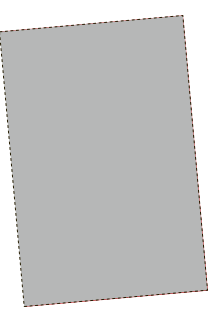
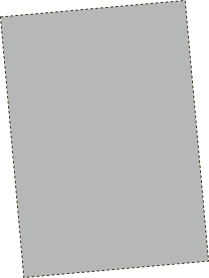
'm'

Changed region(s): [[0.0, 0.0, 1.0, 1.0]]

diff --git a/css/main.css b/css/main.css
@@ -41,7 +41,7 @@ body {
 		font-size:12px;
 	}
      #canvas {
-		height:103%;
+		height:100%;
 	}
 }
 /* for 480px or less */
@@ -50,7 +50,7 @@ body {
 		font-size:12px;
 	}
     #canvas {
-		height:103%;
+		height:100%;
 	}
 }
 

diff --git a/index.php b/index.php
@@ -15,8 +15,8 @@
 		<img  name="bg" src="./images/bg.jpg"  />
 		<div class="gua_area" id="wScratchPad" ></div>
         <a href="javascript:reset_to();"><img id="try_again" class="tip" src="./images/tip01.png" ></a>
-        <img id="bg" class="tip" src="./images/bottom_b.png" >
-        <img id="bottom" class="tipinfo" src="./images/bottom_b.png" >
+        <img id="bg" class="tip" src="./img/lostt1.png" >
+        <img id="bottom" class="tipinfo" src="./img/lostt1.png" >
         <a href="#"><img id="update_info"  class="tip" src="./images/tip02.png" ></a>
         <script type="text/javascript" src="./js/jquery.min.js"></script>
         <script  src="./js/main.js?v=1"></script>
@@ -29,9 +29,6 @@
 			 var ctx=c.getContext("2d");
 			 var img=document.getElementById("bg");
 			 ctx.drawImage(img,0, 0);
-			 //$("#canvas").css({backgroundImage: "url('./images/bottom_b.png')"});
-			 //$("#canvas").css({background: "none"});
-			// $("#bottom").show();
 			  $("#try_again").show();
 		  }else{
 		     $("#update_info").show();
@@ -49,9 +46,9 @@
 		}
 		var sp = $("#wScratchPad").wScratchPad({
 			width           : 209,             
-			height          : 316, 
-			image           : './images/bottom.png',
-			image2           : './images/top.png',
+			height          : 278, 
+			image           : './img/lost1.png',
+			image2          : './images/top.png',
 			scratchUp: function(e, percent) {
 				  if(percent > 47)
 				   clear();
